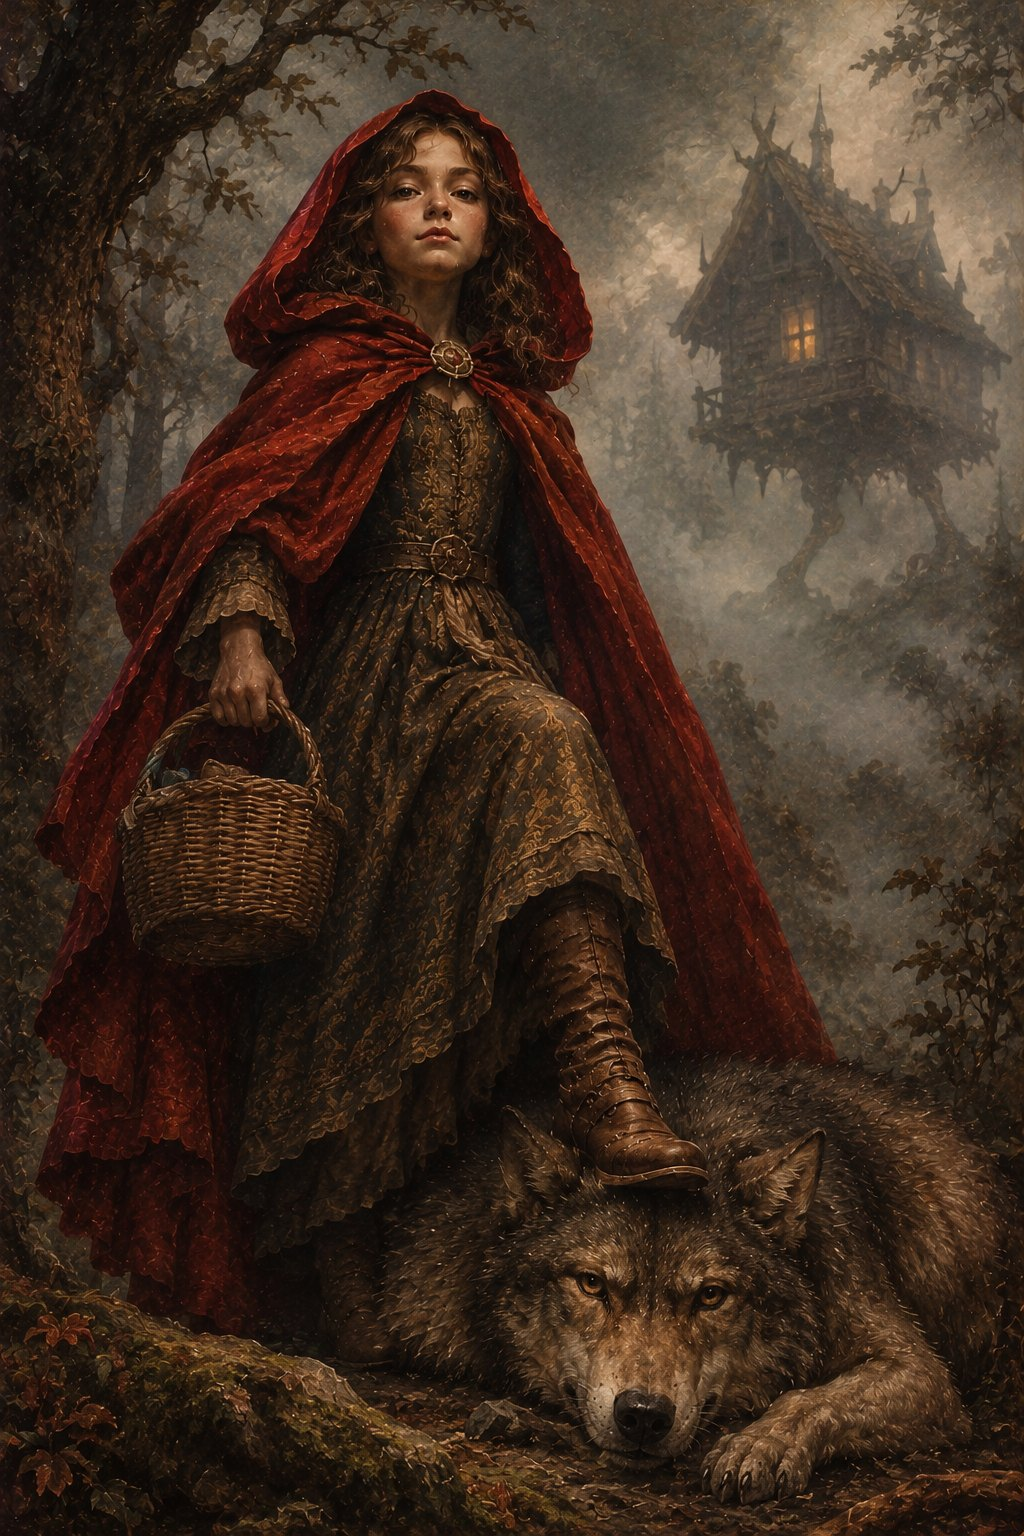
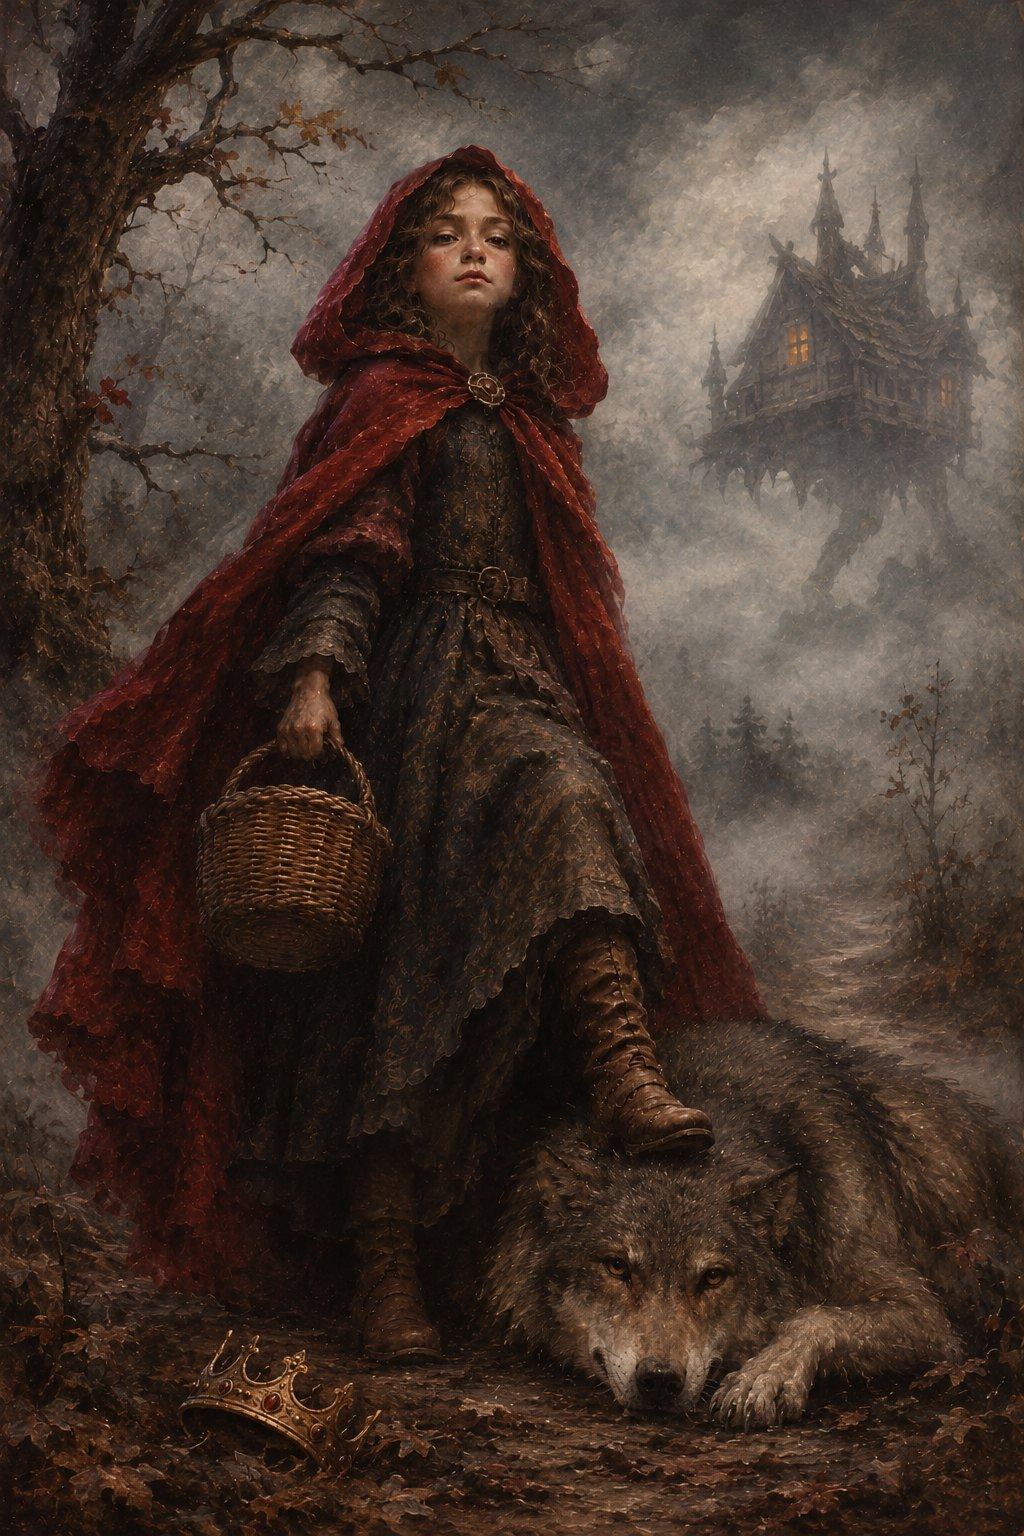
Cover art: new painting with the fallen crown at her feet; cache v5
Claude-Session: https://claude.ai/code/session_011hjvcLb13bz2qC1nwaZAxS

diff --git a/game/index.html b/game/index.html
@@ -2658,7 +2658,7 @@ async function syncPlayer() {
 // Every finished fight is sent to the fights table for playtesting and balancing: the result, both line-ups,
 // rounds, the player's level, and whether the computer was going easy. Fights that can't be sent wait on the phone
 // (up to 50) and go with the next one.
-const BUILD = "2026-11-20-229601a";
+const BUILD = "2026-11-20-980043d";
 const lineupIds = (lu) => ({ crown: lu.crown || null, heroes: (lu.heroes || []).filter(Boolean), front: (lu.front || []).filter(Boolean), items: (lu.items || []).filter(Boolean) });
 function logFight(st, w) {
   if (!S.lineups) return;
@@ -4664,7 +4664,7 @@ function renderPage() {
 }
 // The front of the game: the cover art carries the title, with the controls beside it (desktop) or under it (phone).
 // The painting has no title on it, so the title stands beside it (desktop) or just under it (phone).
-const coverHtml = (inner) => `<div class="cover-screen"><img class="cover" src="img/cover.jpg" alt="Red Riding Hood in the forest, her boot on the wolf, with Baba Yaga's hut on hen's legs behind"><div class="cover-side"><h1 class="cover-title"><span class="ct-crown" aria-hidden="true">${CROWN_SVG}</span>Crown &amp; Chaos</h1>${inner}</div></div>`;
+const coverHtml = (inner) => `<div class="cover-screen"><img class="cover" src="img/cover.jpg" alt="Red Riding Hood in the forest, her boot on the wolf and a fallen crown at her feet, with Baba Yaga's hut on hen's legs behind"><div class="cover-side"><h1 class="cover-title"><span class="ct-crown" aria-hidden="true">${CROWN_SVG}</span>Crown &amp; Chaos</h1>${inner}</div></div>`;
 function homeHtml() {
   if (!G.packOpened) {
     return coverHtml(`<p class="lede">Heroes of folklore, painted by the old masters. Protect your Crown; take theirs.</p>

diff --git a/game/template.html b/game/template.html
@@ -1967,7 +1967,7 @@ function renderPage() {
 }
 // The front of the game: the cover art carries the title, with the controls beside it (desktop) or under it (phone).
 // The painting has no title on it, so the title stands beside it (desktop) or just under it (phone).
-const coverHtml = (inner) => `<div class="cover-screen"><img class="cover" src="img/cover.jpg" alt="Red Riding Hood in the forest, her boot on the wolf, with Baba Yaga's hut on hen's legs behind"><div class="cover-side"><h1 class="cover-title"><span class="ct-crown" aria-hidden="true">${CROWN_SVG}</span>Crown &amp; Chaos</h1>${inner}</div></div>`;
+const coverHtml = (inner) => `<div class="cover-screen"><img class="cover" src="img/cover.jpg" alt="Red Riding Hood in the forest, her boot on the wolf and a fallen crown at her feet, with Baba Yaga's hut on hen's legs behind"><div class="cover-side"><h1 class="cover-title"><span class="ct-crown" aria-hidden="true">${CROWN_SVG}</span>Crown &amp; Chaos</h1>${inner}</div></div>`;
 function homeHtml() {
   if (!G.packOpened) {
     return coverHtml(`<p class="lede">Heroes of folklore, painted by the old masters. Protect your Crown; take theirs.</p>

diff --git a/game/sw.js b/game/sw.js
@@ -1,7 +1,7 @@
 // Crown & Chaos service worker: lets the game install to the home screen and run offline.
 // Every request is answered from the cache when possible and refreshed from the network in the background,
 // so a new version of the game appears on the next launch after it is published.
-const CACHE = "crown-and-chaos-v4";
+const CACHE = "crown-and-chaos-v5";
 const CORE = ["./", "index.html", "manifest.webmanifest", "img/cover.jpg", "icons/icon-192.png", "icons/icon-512.png"];
 
 self.addEventListener("install", (e) => {

diff --git a/README.md b/README.md
@@ -107,4 +107,4 @@ Progress (gold, cards, line-up) is saved in the player's browser only. The page 
 
 ## Cover art
 
-`design/cover-art.jpg` is the front of the game (shown on the home screen as `game/img/cover.jpg`, and behind the level-up screens): Red Riding Hood in the forest, her boot on the wolf, with Baba Yaga's hut on hen's legs behind. It carries no title, so the game sets "Crown & Chaos" beside or under it. Supplied by Jonny in November 2026. It is new artwork, not a public-domain painting, so the art manifest's checks don't cover it. **To do:** record who made it and the licence it is used under before it ships.
+`design/cover-art.jpg` is the front of the game (shown on the home screen as `game/img/cover.jpg`, and behind the level-up screens): Red Riding Hood in the forest, her boot on the wolf and a fallen crown at her feet, with Baba Yaga's hut on hen's legs behind. It carries no title, so the game sets "Crown & Chaos" beside or under it. Supplied by Jonny in November 2026. It is new artwork, not a public-domain painting, so the art manifest's checks don't cover it. **To do:** record who made it and the licence it is used under before it ships.
